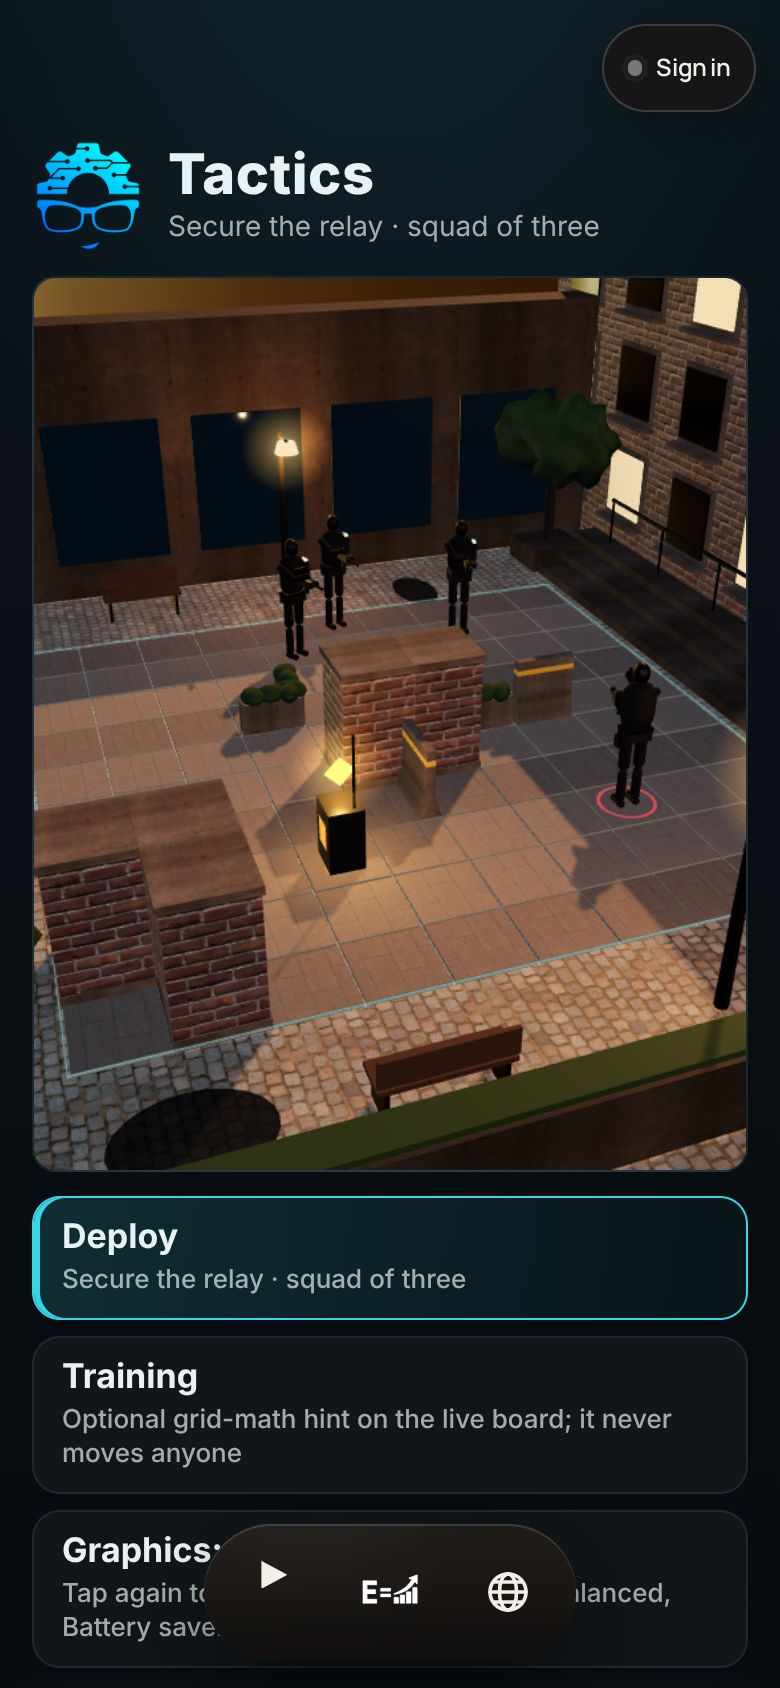
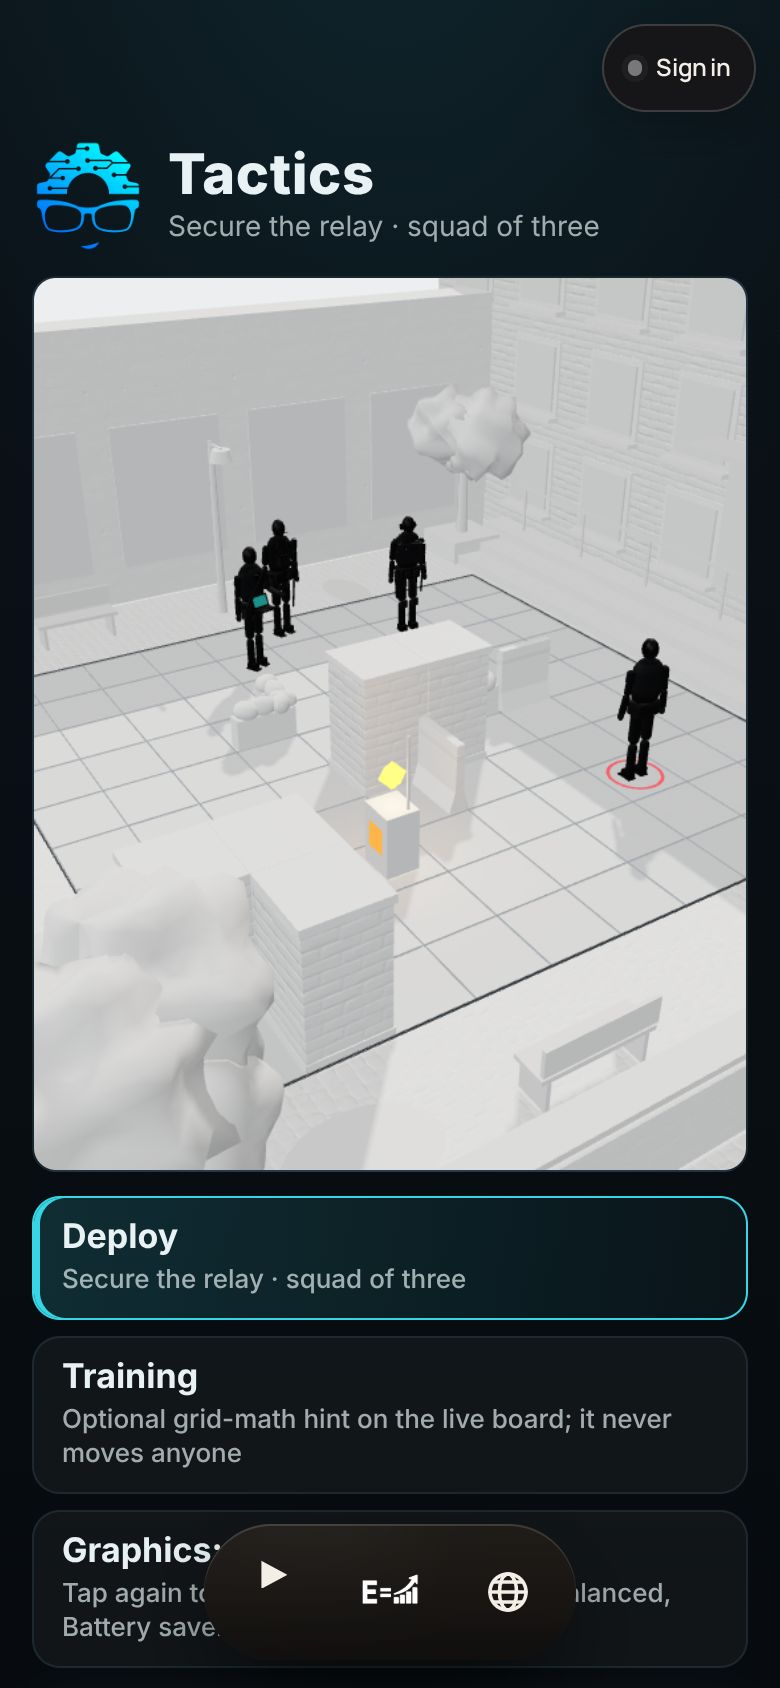
PRIM3 tactics: white world, black loadout-accurate operatives
Owner direction (2026-11-02): characters look exactly like their loadouts on
black mannequins; the environment is white.
- Environment: white clay over all surfaces (keeps PBR normal/roughness
  detail, no colour maps), neutral studio light, no bloom; only game
  overlays and the relay beacon carry colour; axis numbers darkened.
- Operatives rebuilt per Prim3 LOADOUTS (FO-E-AE, FO-R-SO, FO-T-STD, SOI-01):
  per-role carrier/rig/vest, headsets, recorders, holsters, pouches, knee
  pads, entry tool, slung long guns that come to the hands only to shoot,
  T's held cyberdeck and sidearm. No marks.
- e2e 146/146.

Claude-Session: https://claude.ai/code/session_01B5PvZPhk5vVauTQexq1ooq

diff --git a/prim3-tactics-preview.html b/prim3-tactics-preview.html
@@ -120,7 +120,7 @@
     .b3-label--target{translate:-50% 45%}
     .b3-label--cover{font-weight:600;color:var(--p3-dim)}
     .b3-label--step{translate:-50% -150%;background:transparent;border:0;color:var(--p3-ink);font-size:11px}
-    .b3-label--axis{translate:-50% -50%;background:transparent;border:0;color:var(--p3-dim);font:700 11px/1 ui-monospace,monospace;padding:0}
+    .b3-label--axis{translate:-50% -50%;background:transparent;border:0;color:#1b2226;font:800 12px/1 ui-monospace,monospace;padding:0;text-shadow:0 0 3px rgba(255,255,255,.9)}
     .tac-menu.is-float{position:absolute;width:min(210px,58vw);grid-template-columns:minmax(0,1fr);z-index:6;gap:3px;padding:5px;background:rgba(8,14,19,.9)}
     .tac-menu.is-float .tm-head{font-size:11px}
     .tac-menu.is-float .tm-btn small{display:none}

diff --git a/docs/productization/20261102-claude/PRIM3-MOBILE-PASS.md b/docs/productization/20261102-claude/PRIM3-MOBILE-PASS.md
@@ -159,3 +159,14 @@ The handoff's ordered steps, and what happened to each:
 | 5–7. Learning restoration, authored assets and AI, publish | not started | Publication to the site needs the owner's approval through the existing gate. |
 
 **Owner direction, the same day: battlefield size.** No level may be under ±100 on either axis. Training is at least ±100; real scenarios at least ±150. Recorded in Prim3 `game/BATTLEFIELD-SIZE-AUTHORITY.md`. Both 10 × 10 courtyards (this preview and the study) are mechanics test beds, not levels.
+
+## White world, black operatives (owner, 2026-11-02)
+
+> "I want all the characters to look exactly like their loadouts … on black mannequin bodies … simple, low poly … super realistic, but it's white against black. So all the players are black and the entire environment is white."
+
+| Item | Status | Evidence / note |
+|---|---|---|
+| White environment | implemented · verified | **Surfaces:** every environment surface is a white clay material: paving, plaza, buildings, walls, cover, trees, props and the menu backdrop. It keeps the photo-scanned normal and roughness detail but no colour map, with tones of grey so the board reads. **Light:** a neutral studio light (RoomEnvironment), a white sun and soft shadows; GTAO on the high tier. **Removed:** bloom, which hazed white, and the warm lamps. **Colour left:** only the game's overlays (cyan reach, amber path and target, red hostile ring) and the relay beacon. **Readability:** the axis numbers are now dark. Screenshots: `evidence/prim3-mobile/390-white-*.jpg`, `390-menu.jpg`. e2e 146/146. |
+| Operatives built from the loadout photographs | implemented | Black faceless mannequins with all gear in black, per Prim3 `phenotypes/operators/LOADOUTS.md`. **E:** carrier, knee pads, over-ear headset, body camera with a red record light, belt pouches, right-hip holster, entry tool at the thigh, compact carbine slung left. **R:** light chest rig with binoculars in the sternum pouch, recorder, one-ear headset, belt radio, holster, scoped rifle slung left. **T:** short sleeves with mannequin forearms, zip soft vest, centre recorder, radio on the left strap, deck sling, open cyberdeck held at the waist, belt pouches, sidearm. **Known hostiles:** SOI-01 officers. Arms hang relaxed and swing when walking; long guns come off the sling only to shoot, and T fires the sidearm. No marks. **Still procedural:** these are not authored GLBs; the model slot is unchanged. |
+| T reference | done | Owner's FO-T Standard mannequin and loadout added to the Prim3 loadout index (branch `design/operator-loadouts-20261102`), so E, R and T are complete. |
+| Pre-mission loadout editor ("like Call of Duty … upgrade the loadouts … mission points") | designed only | Next: see the proposal in HANDOFF / the next turn. |
